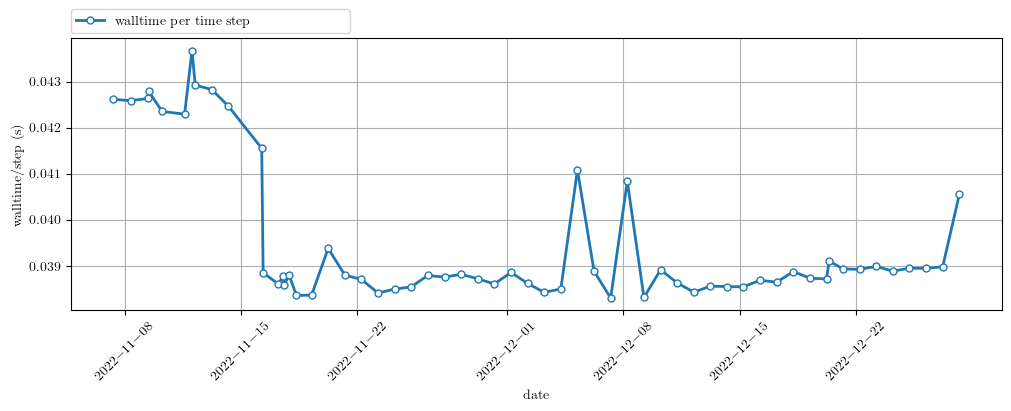
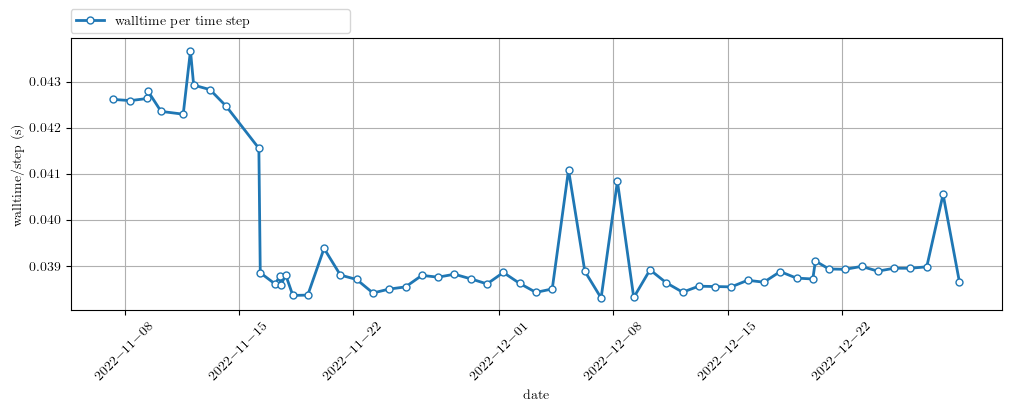
Automatic timing summary commit: lassen708 2022-12-29 05:01

diff --git a/README.md b/README.md
@@ -1,4 +1,4 @@
-Timings last ran on: 2022.12.28
+Timings last ran on: 2022.12.29
 
 # Status of production timings
 
